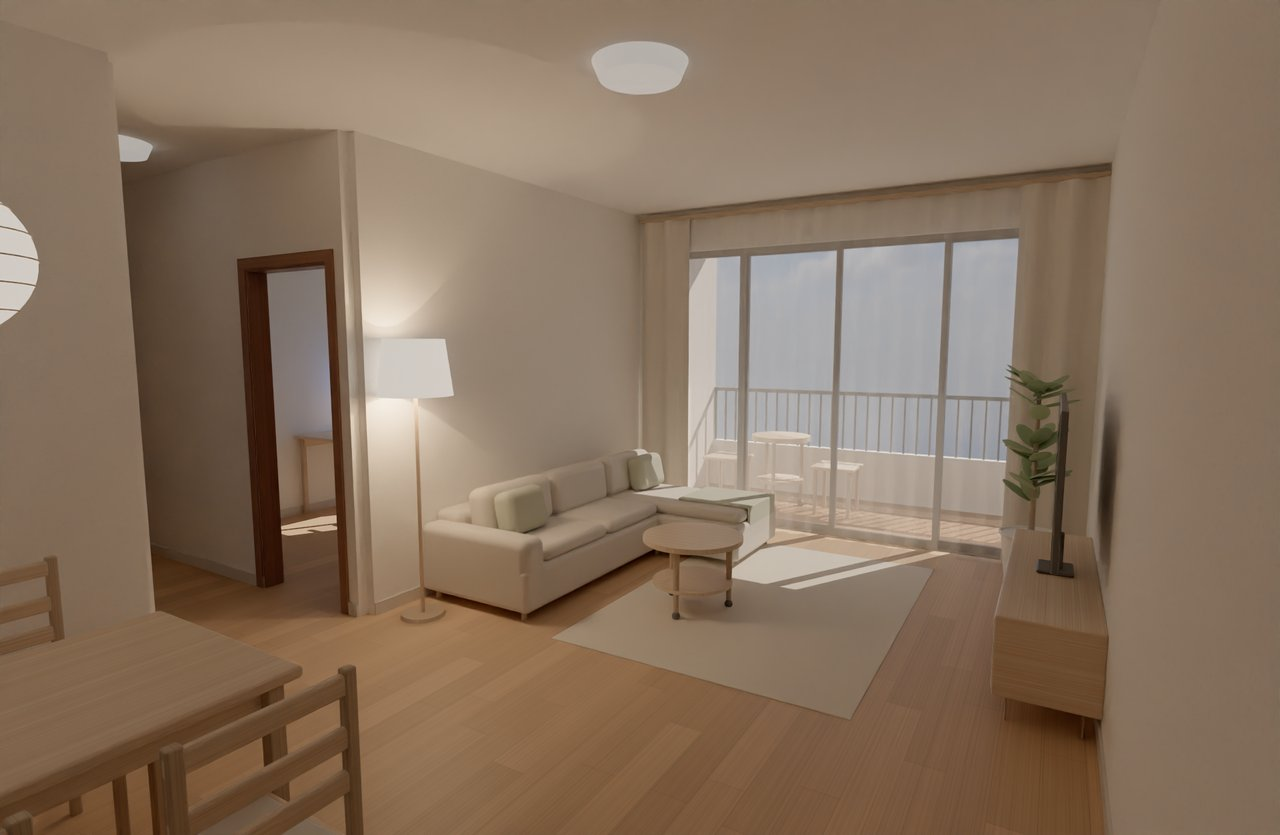
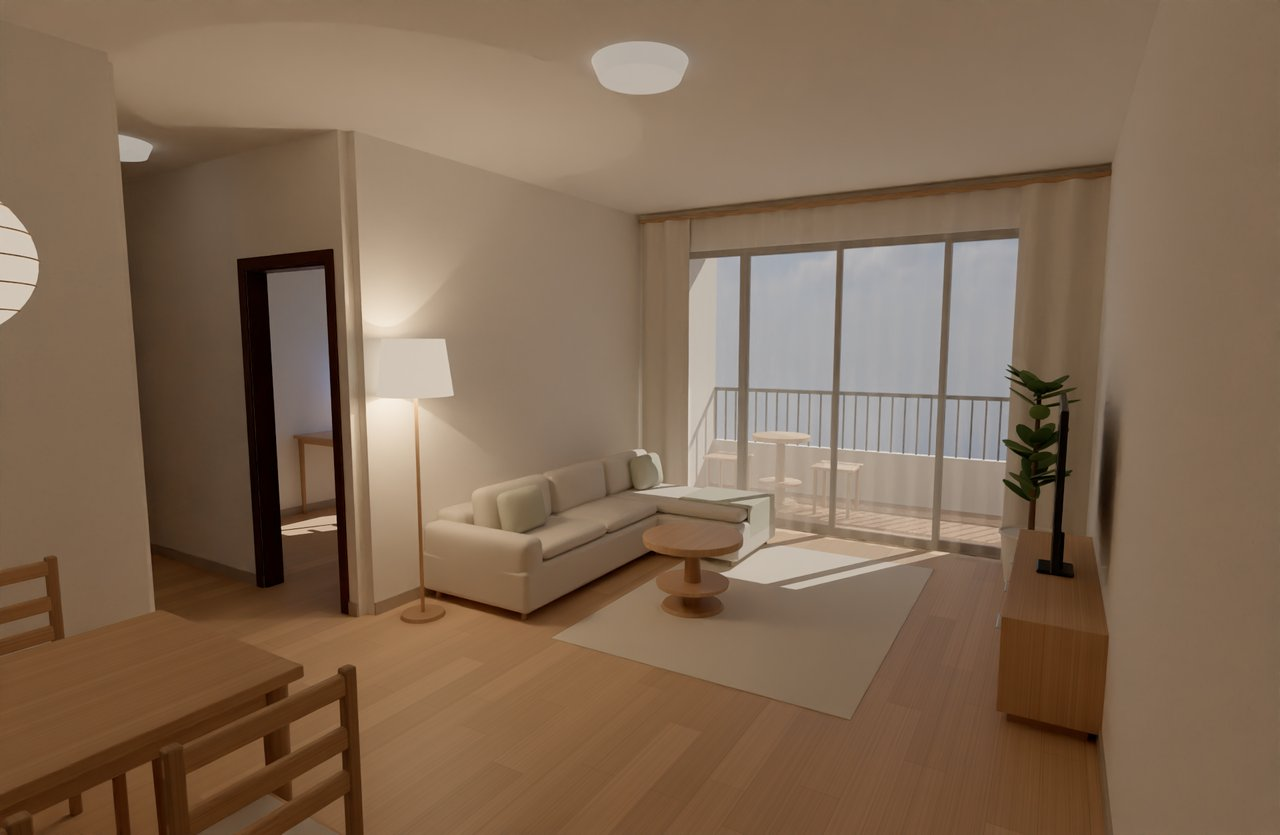
README：换上家具改进后的效果图，补 AI 精修的说明、价格、数据去向和对比图；记录模型选型的结论

diff --git a/src/ui/renderDialog.ts b/src/ui/renderDialog.ts
@@ -9,7 +9,7 @@ import { dashscopeOrigin, refineImage, refineSize } from "../llm/refine";
 
 type Kind = "still" | "pano";
 const NO_WEBGPU = "这个浏览器不支持 WebGPU，出不了效果图。请用电脑上最新版的 Chrome 或 Edge。3D 浏览和其他功能不受影响。";
-/** 清晰度：长边像素和每个像素的采样次数。数值按 2026-11-25 RX 7800 XT 实测定：标准约 15 秒，高清约 30 秒（全景约 1 分钟） */
+/** 清晰度：长边像素和每个像素的采样次数。数值按 2026-11-25 RX 7800 XT 实测定：标准约 15 秒，高清约 40 秒，标准全景约 22 秒 */
 export const PRESETS: Record<Kind, Record<"std" | "hd", { long: number; samples: number; label: string }>> = {
   still: { std: { long: 1280, samples: 64, label: "标准（1280 像素）" }, hd: { long: 1920, samples: 128, label: "高清（1920 像素）" } },
   pano: { std: { long: 2048, samples: 64, label: "标准（2048×1024）" }, hd: { long: 4096, samples: 64, label: "高清（4096×2048）" } },

diff --git a/README.md b/README.md
@@ -14,7 +14,7 @@
 |---|---|
 | **描户型** | 上传户型图当底图，点两个点、输入实际长度来标定比例（手机拍的图横竖比例不一样，可以分别标定）。画墙时自动吸附端点、对齐、拉成横平竖直；在墙上点一下放门窗；拖一个框或逐点围出房间。 |
 | **自动出 3D** | 墙、门（开着的门扇）、推拉门、窗、窗台、地板、天花板、踢脚线全部按数据生成。第一人称走动（点地面走过去、WASD）、鸟瞰、俯视，每个房间自动找一个“站在墙角看对角”的视角。 |
-| **出效果图** | 把当前视角渲染成接近照片的效果图，或者站在房间里出一张 720 全景。用路径追踪算光线在屋里的多次反弹，用你自己电脑的显卡在浏览器里算，不上传任何东西；一张几十秒。需要支持 WebGPU 的浏览器（电脑上的 Chrome、Edge）。 |
+| **出效果图** | 把当前视角渲染成接近照片的效果图，或者站在房间里出一张 720 全景。用路径追踪算光线在屋里的多次反弹，用你自己电脑的显卡在浏览器里算，不上传任何东西；一张十几到几十秒。需要支持 WebGPU 的浏览器（电脑上的 Chrome、Edge）。出完可以点“AI 精修”，用你的通义千问 Key 把效果图做成照片质感的示意图。 |
 | **家具** | 38 种参数化家具（床、沙发、柜子、灯、窗帘、厨卫……），在属性面板里尺寸随便改，外形跟着变。5 套整体风格一键切换。 |
 | **大模型布置** | “主卧按原木风布置，预算 5000 以内”——大模型给出修改清单，程序先检查出界、重叠、挡门，你确认后才改，改完能撤销。 |
 | **采购清单** | 按房间汇总价格和预算；大模型估的价格单独标出“未核实”。 |
@@ -22,11 +22,15 @@
 
 ![编辑器](docs/images/editor.png)
 
-“出效果图”渲染的示例客餐厅和主卧（1920 像素宽，每个像素采样 128 次加降噪；2026-11-25 用 RX 7800 XT 显卡各约 35 秒）：
+“出效果图”渲染的示例客餐厅和主卧（1920 像素宽，每个像素采样 128 次加降噪；2026-11-25 用 RX 7800 XT 显卡各约 40 秒）：
 
 | | |
 |---|---|
 | ![客餐厅效果图](docs/images/render-living.jpg) | ![主卧效果图](docs/images/render-master.jpg) |
+
+左：效果图；右：AI 精修（qwen-image-2.1-pro，13 秒）。房间结构、家具位置和数量保住了，材质和光影更像照片；但它是图像模型重新画的，细节可能和方案不一致，只当示意图。
+
+![效果图和 AI 精修对比](docs/images/ai-refine.jpg)
 
 ## 使用步骤
 
@@ -51,9 +55,11 @@
 | OpenAI | gpt-4o-mini | gpt-4o-mini |
 | 其他 OpenAI 兼容接口 | 自己填 | 自己填 |
 
+出效果图里的“AI 精修”目前只接了通义千问的图像编辑模型（默认 qwen-image-2.1-pro，按 2026-11 的百炼价格约 0.25 元/张；qwen-image-2.1-turbo 约 0.1 元/张），在模型设置的“图像模型”里改。
+
 模型名会更新，默认值可能过时（2026-11-24 通义千问的 qwen-vl-max 已经调不通，默认识图模型换成了 qwen3-vl-plus）。点“获取模型列表”可以从厂商那里读当前能用的模型。智谱的接口不允许浏览器直接调用，用不了。
 
-**数据去了哪里**：Key 只保存在你这个浏览器里（localStorage）。提问时，户型数据（墙、房间、家具，不含底图）和你说的话由浏览器**直接**发给你选的厂商；这个网站是纯静态页面，没有服务器，不经手任何数据。识别户型图时会把你框出的那部分户型图发给厂商。调用按厂商价格计费。在公用电脑上用完请点“清除 Key”。
+**数据去了哪里**：Key 只保存在你这个浏览器里（localStorage）。提问时，户型数据（墙、房间、家具，不含底图）和你说的话由浏览器**直接**发给你选的厂商；这个网站是纯静态页面，没有服务器，不经手任何数据。识别户型图时会把你框出的那部分户型图发给厂商；AI 精修时会把那张效果图发给阿里云百炼。“出效果图”本身在你的电脑上算，不发给任何人。调用按厂商价格计费。在公用电脑上用完请点“清除 Key”。
 
 **大模型能改什么**：只能增删改家具、换地板墙面颜色和整体风格、加清单项，动不了墙和门窗。它返回的是结构化的修改指令（见 `src/model/ops.ts`），程序校验后列给你看，有摆放问题会标出来，你点“应用”才生效。
 
@@ -99,7 +105,7 @@ src/
     viewer.ts       渲染、第一人称走动、鸟瞰、点选
     render.ts       出效果图：WebGPU 路径追踪 + 降噪（点按钮时才加载）
   editor/         二维描图编辑器（SVG）
-  llm/            大模型：接口调用、提示词、户型图识别
+  llm/            大模型：接口调用、提示词、户型图识别、AI 精修
   ui/             右侧面板：方案、属性、大模型、清单；出效果图对话框
 public/render/    出效果图用的天空 HDRI 和降噪网络权重
 tests/            单元测试
@@ -113,18 +119,19 @@ examples/         示例方案
 - **zod**：导入的 JSON 和大模型的回复都不可靠，要校验。一份定义同时给出 TypeScript 类型、运行时校验和报错信息。
 - **大模型只发指令，不发整份方案**：整份方案太长，它也会顺手改坏墙。指令只有几种，每条都能检查；摆放用“靠哪面墙、在哪一段”“挨着哪件家具”“放在哪件上面”描述，坐标由程序算，比让它直接算坐标准。
 - **尺寸有范围、颜色是选择题**：不同厂商、不同大小的模型水平差很多，让它自由填尺寸和色值，效果就看模型好坏（实测有模型把整屋地板设成接近纯白）。改成在范围内填、从色板里选，换哪个模型，尺寸和颜色都不会离谱；代价是色板外的颜色要自己手动调。
-- **家具按尺寸拼出来**：没用真实商品的 3D 模型，所以能任意改尺寸，文件也小；代价是外观是简化的。
+- **家具按尺寸拼出来**：没用真实商品的 3D 模型，所以能任意改尺寸，文件也小；枕头、被子、坐垫用“软包”件做出鼓起，柜子有独立门板、缝和金属拉手。2026-11-25 调研过免费可商用的写实模型：CC0 的现代款只有绿植、吊灯和少量摆件，其余多是要署名、要登录才能下载的 CC-BY 模型，风格也难统一，所以暂时都用参数化建模。
+- **AI 精修只当示意图**：图像模型能让材质和光影更像照片，但它是重新画一遍，家具款式、细节甚至数量可能变，所以和方案、采购清单脱钩，界面上明确标出来。装修平台的做法也是先用 3D 锁住结构，再用 AI 美化。
 - **浏览用实时渲染，出图用路径追踪**：装修平台也是这样分的。实时渲染（WebGL）每秒几十帧，适合走动和摆家具，但只算直射光，墙角不会变暗、颜色不会互相映，像游戏截图。路径追踪模拟光线多次反弹，接近照片，但一张要几十秒，所以只在点“出效果图”时算。商用平台在云端 GPU 上算；这里用 [three-gpu-pathtracer](https://github.com/gkjohnson/three-gpu-pathtracer) 在用户自己的显卡上算，不需要服务器，代价是速度取决于用户的电脑、要求浏览器支持 WebGPU。降噪用 Intel Open Image Denoise 的 WebGPU 版，每个像素采样几十次就能出干净的图。
 
 ## 局限
 
-- 家具是简化模型，用来看布局、尺寸、动线和色调，和实物款式会有差别。
+- 家具是参数化的简化模型，用来看布局、尺寸、动线和色调，没有真实商品的细节，和实物款式会有差别。
 - 户型图识别只是草稿。2026-11-24 用 qwen3-vl-plus 识别示例那一户：识别出的墙只有约四分之一落在真实位置 30 厘米以内，门窗基本没认出来，一次要三四分钟。一定要对照底图检查，多数墙要手动改。
 - 大模型给的价格是按常见价位估的，没有联网核实。
 - 墙只能是直的，只支持一层。
 - 编辑器按电脑设计；手机上可以看 3D 和清单，编辑不方便。
-- 出效果图要浏览器支持 WebGPU：电脑上的 Chrome、Edge 可以，Firefox 目前只有 Windows 版默认支持。速度取决于显卡：上面的示例图用 RX 7800 XT 约 35 秒一张，集成显卡会慢很多，手机没测过。第一次出图要下载约 4 MB（渲染程序、天空贴图和降噪权重）。
-- 效果图里的家具仍是简化模型（方块枕头、平板柜门），光照真实了，家具外形的差距反而更明显。
+- 出效果图要浏览器支持 WebGPU：电脑上的 Chrome、Edge 可以，Firefox 目前只有 Windows 版默认支持。速度取决于显卡：上面的示例图用 RX 7800 XT 约 40 秒一张（标准清晰度约 15 秒），集成显卡会慢很多，手机没测过。第一次出图要下载约 4 MB（渲染程序、天空贴图和降噪权重）。
+- AI 精修只支持通义千问，按张计费，结果是示意图（见上）；结果图由厂商保存约 24 小时，要留着请另存。
 
 ## 许可
 
